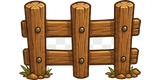
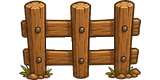
Make ranch fence rail gaps transparent.
Painted checkerboard fill between posts showed as white in cave trails.

diff --git a/tools/fix_fence_art.py b/tools/fix_fence_art.py
@@ -1,0 +1,46 @@
+#!/usr/bin/env python3
+"""Punch painted checkerboard / white fill from between ranch fence posts.
+
+``assets/world/fence.png`` shipped with enclosed light-gray/white squares in the
+rail gaps (fake transparency). Flood-fill cutout cannot reach those pockets
+from the border; this scrub clears flat near-white matte so cave/desert
+backdrops show through.
+
+    python tools/fix_fence_art.py
+"""
+
+from __future__ import annotations
+
+from pathlib import Path
+
+from PIL import Image
+
+ROOT = Path(__file__).resolve().parents[1]
+FENCE = ROOT / "assets" / "world" / "fence.png"
+
+
+def scrub_fence(path: Path = FENCE) -> int:
+	im = Image.open(path).convert("RGBA")
+	px = im.load()
+	w, h = im.size
+	cleared = 0
+	for y in range(h):
+		for x in range(w):
+			r, g, b, a = px[x, y]
+			if a < 8:
+				continue
+			chroma = max(r, g, b) - min(r, g, b)
+			# Flat light checker / white only — keep warm wood browns.
+			if min(r, g, b) >= 160 and chroma <= 25:
+				px[x, y] = (r, g, b, 0)
+				cleared += 1
+			elif min(r, g, b) >= 140 and chroma <= 15:
+				px[x, y] = (r, g, b, 0)
+				cleared += 1
+	im.save(path)
+	return cleared
+
+
+if __name__ == "__main__":
+	n = scrub_fence()
+	print(f"scrubbed {n} matte pixels from {FENCE.relative_to(ROOT)}")
